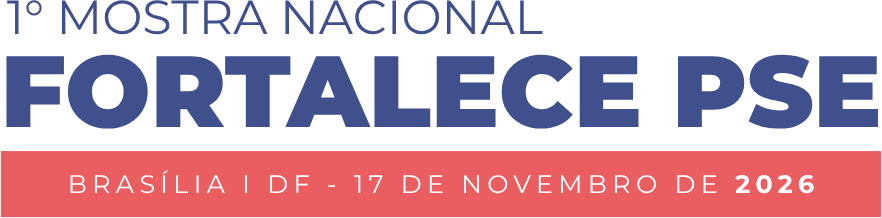
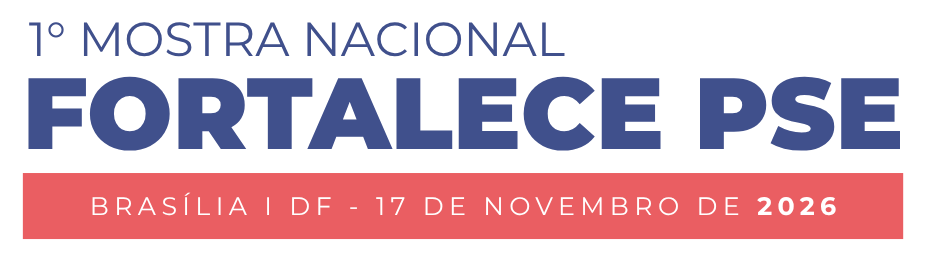
atualizacao

diff --git a/docs/src/styles.css b/docs/src/styles.css
@@ -324,3 +324,77 @@ html, body {
   .profile-page .profile-identity.glass-profile-card { top:13%; left:7%; width:86%; height:67.5%; }
   .profile-page .profile-controls { top:82.2%; left:19%; width:62%; height:6%; }
 }
+
+/* ===== Ajustes finais solicitados: arte oficial, perfil limpo e controles ===== */
+.home-page .brand-home {
+  top:2.1%; right:3.2%; width:17%; height:auto;
+  object-fit:contain; z-index:4;
+}
+.home-page #main-title {
+  top:5.8%; left:8.5%; width:72%; z-index:4;
+}
+.home-page .main-title-art { width:100%; height:auto; object-fit:contain; }
+.home-page .home-intro { top:22.8%; }
+.home-page .map-stage { top:38%; }
+.home-page .select-button { top:86%; }
+
+/* Sem cabeçalho de logos/arte no perfil: foto, identificação, mensagem e rodapé. */
+.profile-page .profile-header { display:none !important; }
+.profile-page .profile-identity.glass-profile-card {
+  top:7.2%; left:7%; width:86%; height:73.3%;
+}
+
+/* Contorno das UFs mais delicado; hover/seleção continuam destacados sem engrossar demais. */
+.home-page .map-state { stroke:#fff; stroke-width:1.25; }
+.home-page .map-state:hover,
+.home-page .map-state:focus-visible { stroke:#fffdf1; stroke-width:2.2; }
+.home-page .map-state.is-active { stroke:#fff; stroke-width:2.6; }
+
+/* Controles circulares com acabamento mais leve e consistente. */
+.profile-page .profile-controls {
+  top:82.1%; left:16%; width:68%; height:6.2%;
+  gap:4%; align-items:center; justify-content:center;
+}
+.profile-page .nav-center { flex:1; min-width:0; display:flex; flex-direction:column; align-items:stretch; }
+.profile-page .round-control {
+  appearance:none; -webkit-appearance:none;
+  display:grid; place-items:center; flex:0 0 auto;
+  width:5.8cqw; height:5.8cqw; min-width:34px; min-height:34px;
+  padding:0; border:1.5px solid #d9e0e8; border-radius:50%;
+  background:linear-gradient(145deg,#fff 0%,#f1f4f8 100%);
+  color:#405493; font-family:Arial,sans-serif; font-size:3.5cqw;
+  font-weight:500; line-height:1; text-align:center;
+  box-shadow:0 3px 10px #243b6418, inset 0 1px 0 #fff;
+  transition:transform .18s ease, box-shadow .18s ease, background .18s ease, color .18s ease;
+}
+.profile-page .round-control:hover {
+  color:#fff; border-color:#405493;
+  background:linear-gradient(145deg,#536bad,#344a89);
+  box-shadow:0 5px 14px #243b6430; transform:translateY(-1px);
+}
+.profile-page .round-control:active { transform:scale(.94); }
+.profile-page .round-control:focus-visible { outline:2px solid #e6b900; outline-offset:3px; }
+.profile-page .back-button {
+  min-height:0; height:5.5cqw; border-radius:999px;
+  font-size:1.7cqw; padding:0 1.8cqw;
+  box-shadow:0 4px 12px #243b6420;
+}
+.profile-page .profile-counter { margin-top:.65cqw; }
+@media (max-width:650px), (max-height:700px) {
+  .home-page .home-intro { top:22.8%; }
+  .home-page .map-stage { top:38%; }
+  .home-page .select-button { top:86%; }
+  .profile-page .profile-identity.glass-profile-card { top:7.2%; height:73.3%; }
+  .profile-page .profile-controls { top:82.1%; left:16%; width:68%; height:6.2%; }
+}
+/* Proporções da capa após recorte das áreas transparentes das artes oficiais. */
+.home-page #main-title { left:8.5%; top:6.1%; width:62%; }
+.home-page .home-intro { top:25.3%; }
+.home-page .map-stage { top:40.5%; height:43%; }
+.home-page .select-button { top:86%; }
+@media (max-width:650px), (max-height:700px) {
+  .home-page #main-title { left:8.5%; top:6.1%; width:62%; }
+  .home-page .home-intro { top:25.3%; }
+  .home-page .map-stage { top:40.5%; height:43%; }
+  .home-page .select-button { top:86%; }
+}

diff --git a/docs/index.html b/docs/index.html
@@ -30,7 +30,6 @@
 
     <main id="profile" class="poster profile-page" aria-labelledby="profile-name" hidden>
       <div class="color-line" aria-hidden="true"><i></i><i></i><i></i><i></i></div>
-      <header class="profile-header"><img class="profile-event" src="./assets/mostra-nacional-nova.png" alt="1ª Mostra Nacional Fortalece PSE" /></header>
       <section class="profile-identity glass-profile-card" aria-label="Perfil do extensionista">
         <div class="avatar" id="participant-avatar"><div class="avatar-landscape" aria-hidden="true"><i class="cloud"></i><i class="hill hill-far"></i><i class="hill hill-near"></i></div></div>
         <div class="profile-glass-gradient" aria-hidden="true"></div>
